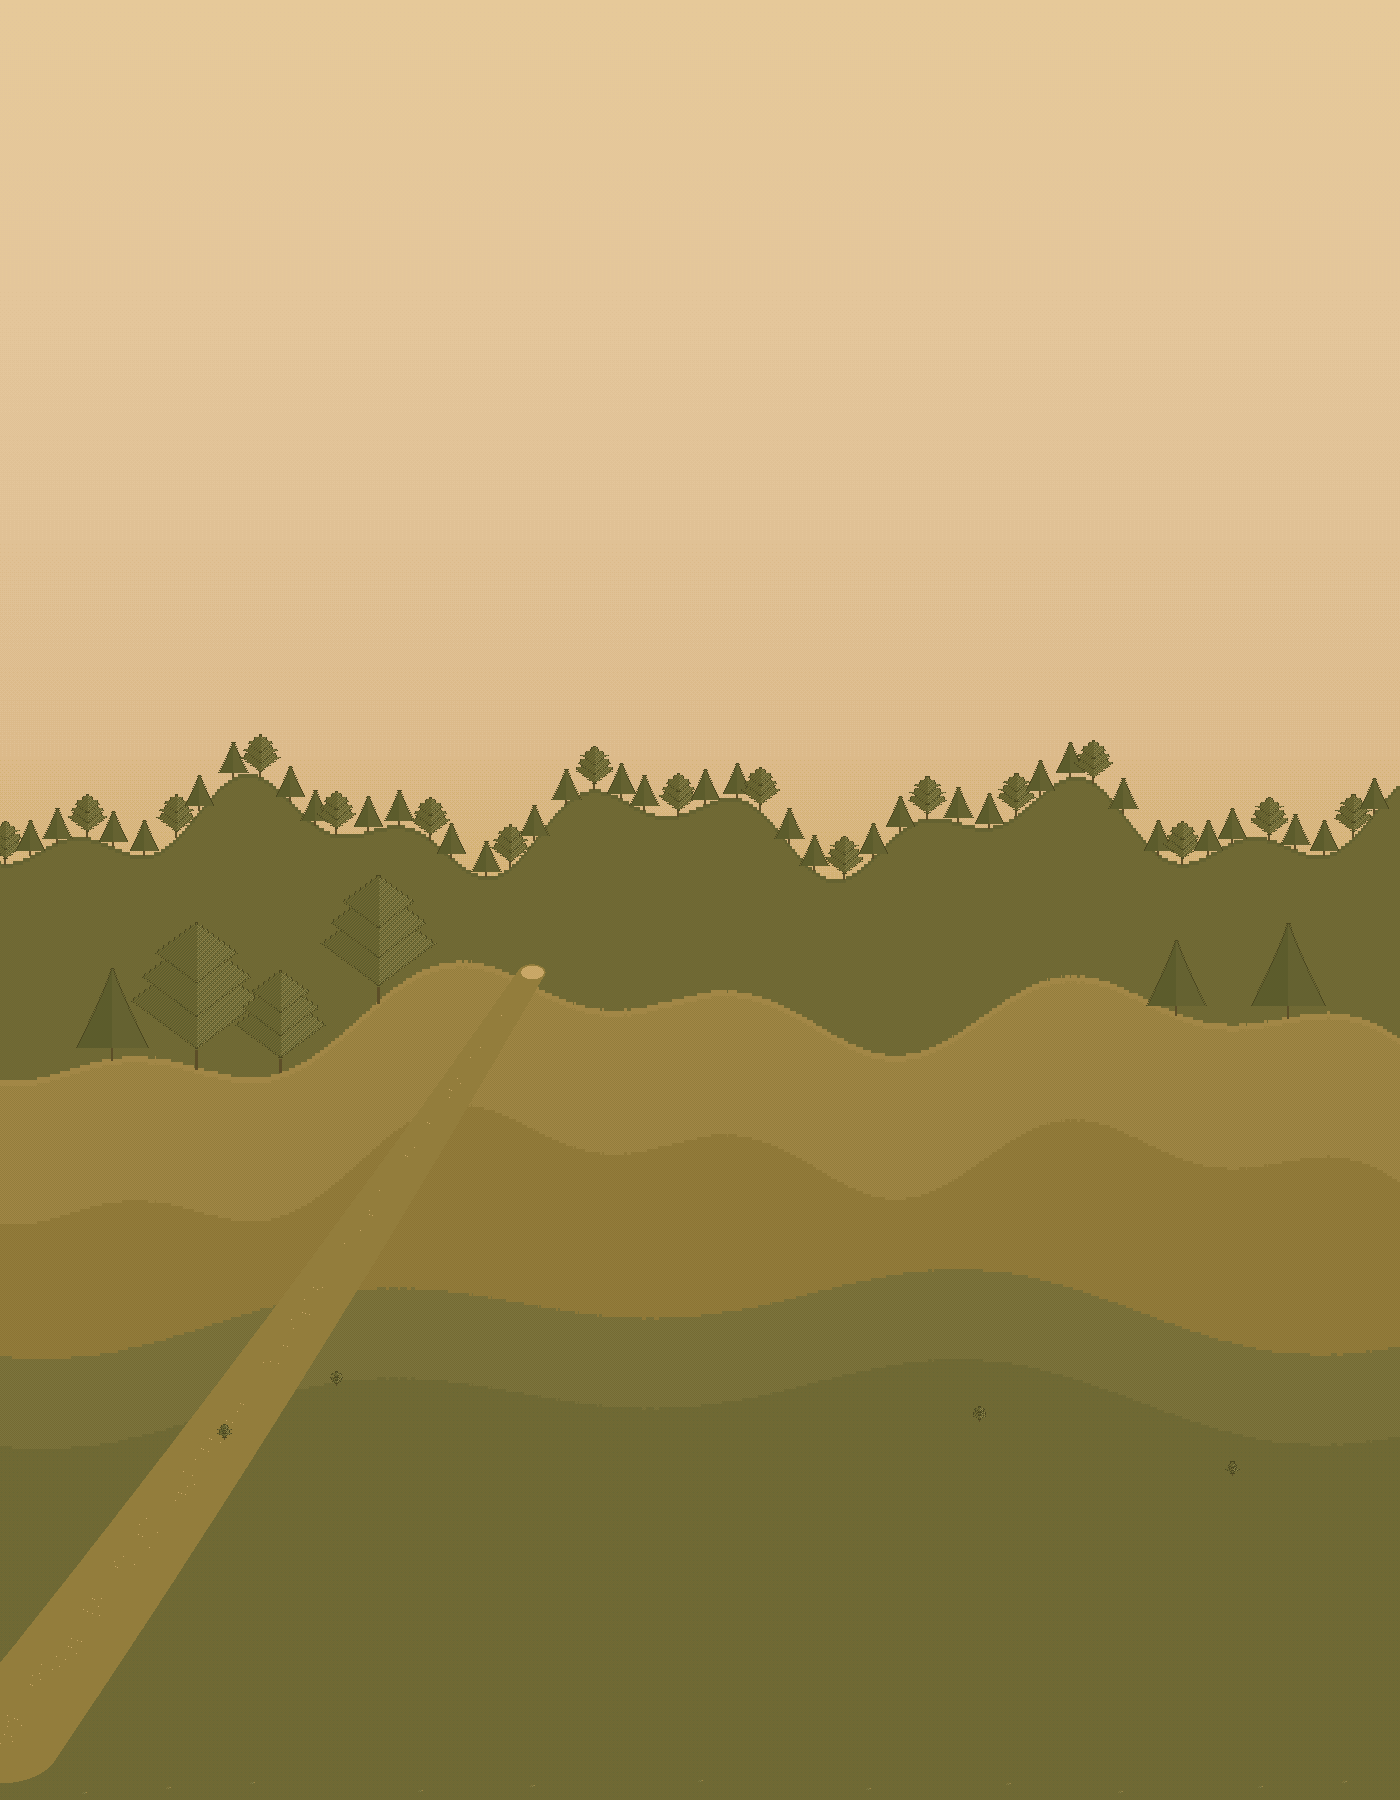
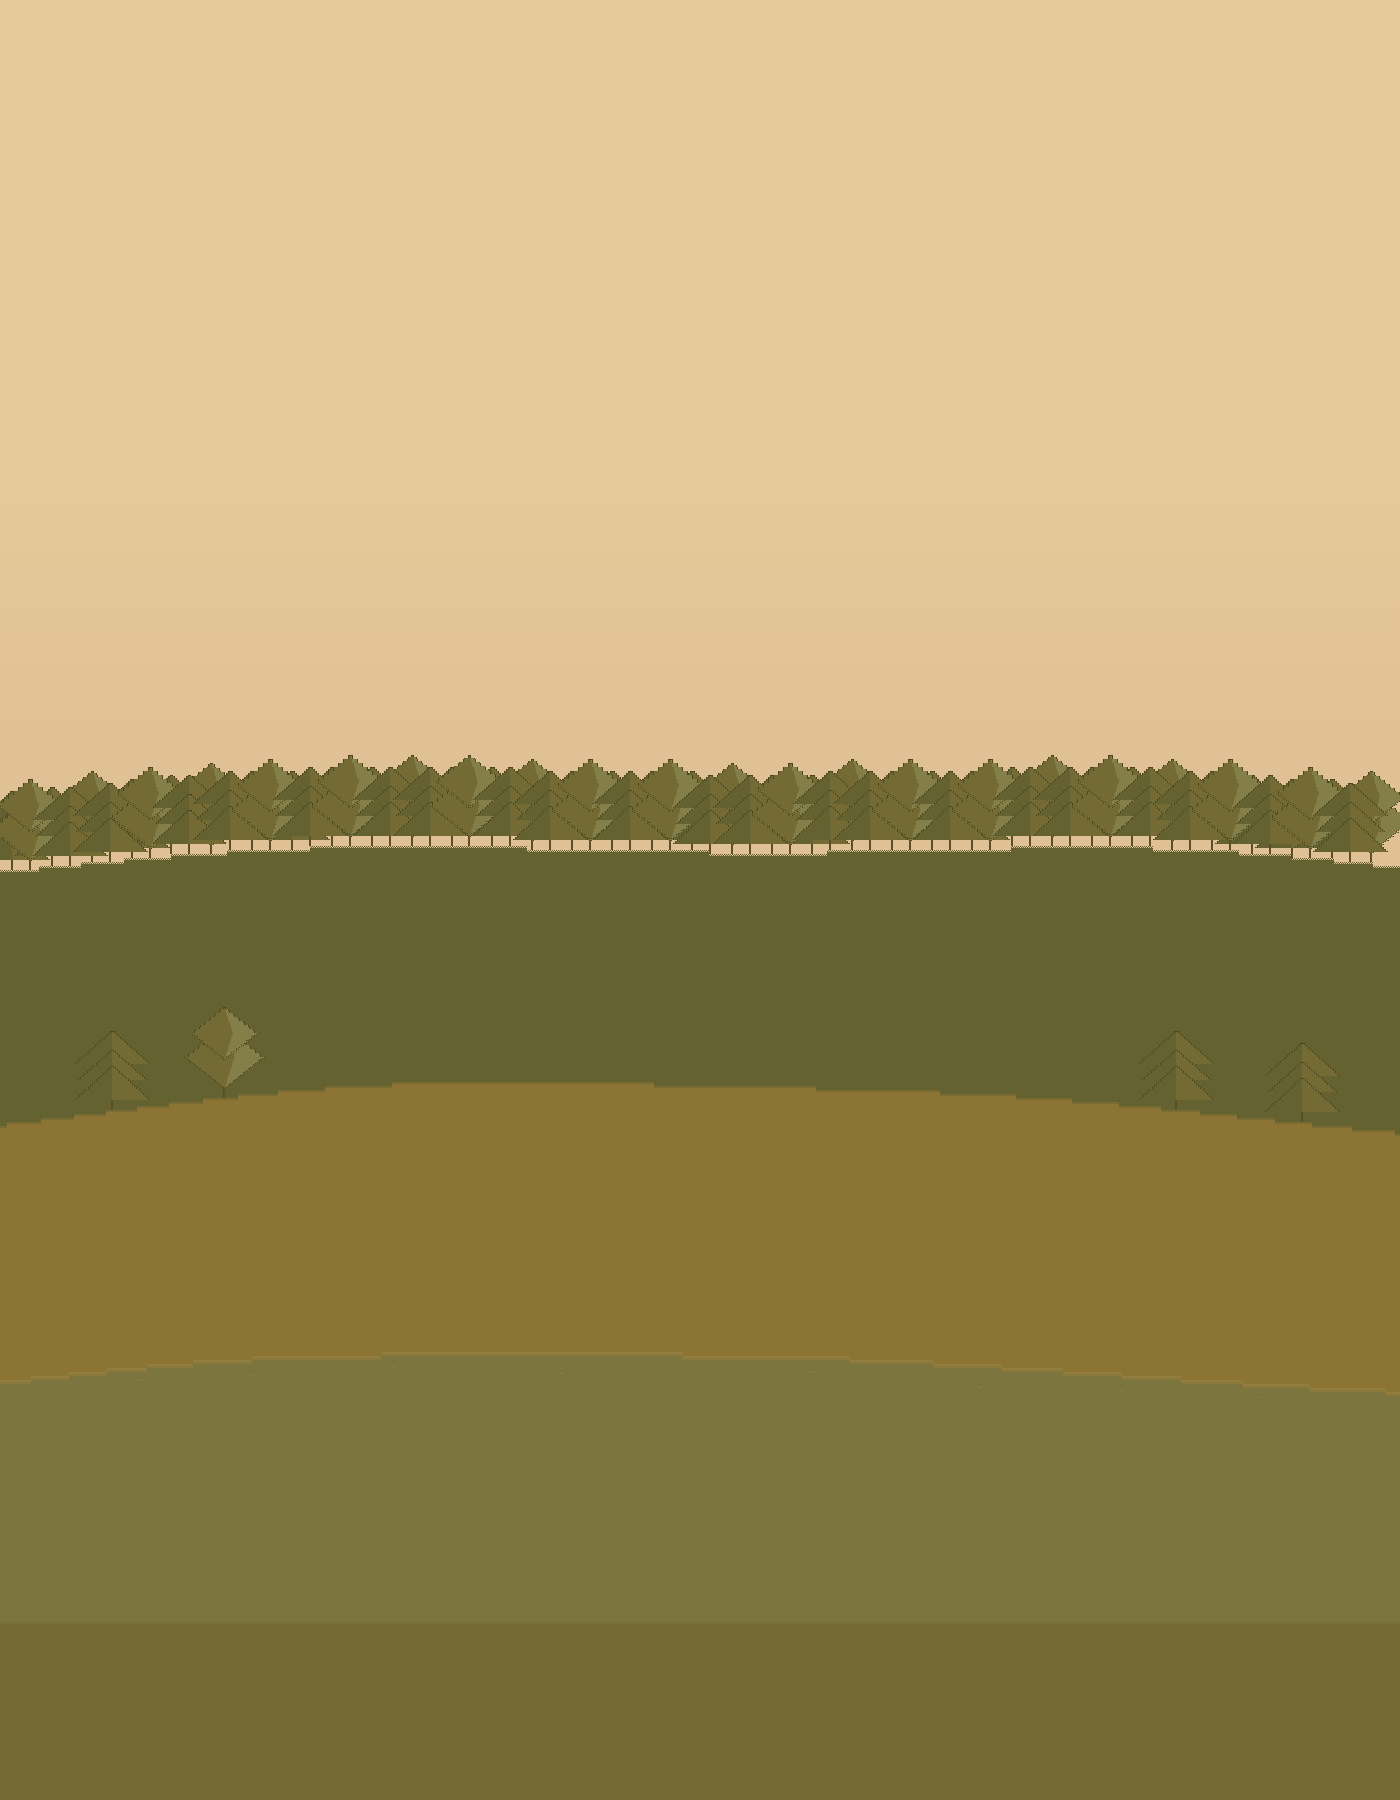
Flatten the 1990s hill to a 2D SNES backdrop.
Drop the path and the fake vanishing-point scale. Same-size trees
on stacked hill bands, like a theater backdrop, not a 3D landscape.

Changed region(s): [[0.0, 0.4044, 1.0, 0.6533], [0.0, 0.9022, 0.0921, 0.9956]]

diff --git a/components/hero-backdrop.tsx b/components/hero-backdrop.tsx
@@ -40,7 +40,7 @@ export function HeroBackdrop() {
         />
         <img
           className="hero-backdrop-1990s-plate hero-backdrop-1990s-phone"
-          src="/hero/hero-1990s-hill.png?v=pxm2"
+          src="/hero/hero-1990s-hill.png?v=flat1"
           width={760}
           height={1650}
           alt=""
@@ -48,7 +48,7 @@ export function HeroBackdrop() {
         />
         <img
           className="hero-backdrop-1990s-plate hero-backdrop-1990s-md"
-          src="/hero/hero-1990s-hill-md.png?v=pxm2"
+          src="/hero/hero-1990s-hill-md.png?v=flat1"
           width={1400}
           height={1800}
           alt=""
@@ -56,7 +56,7 @@ export function HeroBackdrop() {
         />
         <img
           className="hero-backdrop-1990s-plate hero-backdrop-1990s-wide"
-          src="/hero/hero-1990s-hill-wide.png?v=pxm2"
+          src="/hero/hero-1990s-hill-wide.png?v=flat1"
           width={1680}
           height={1100}
           alt=""
